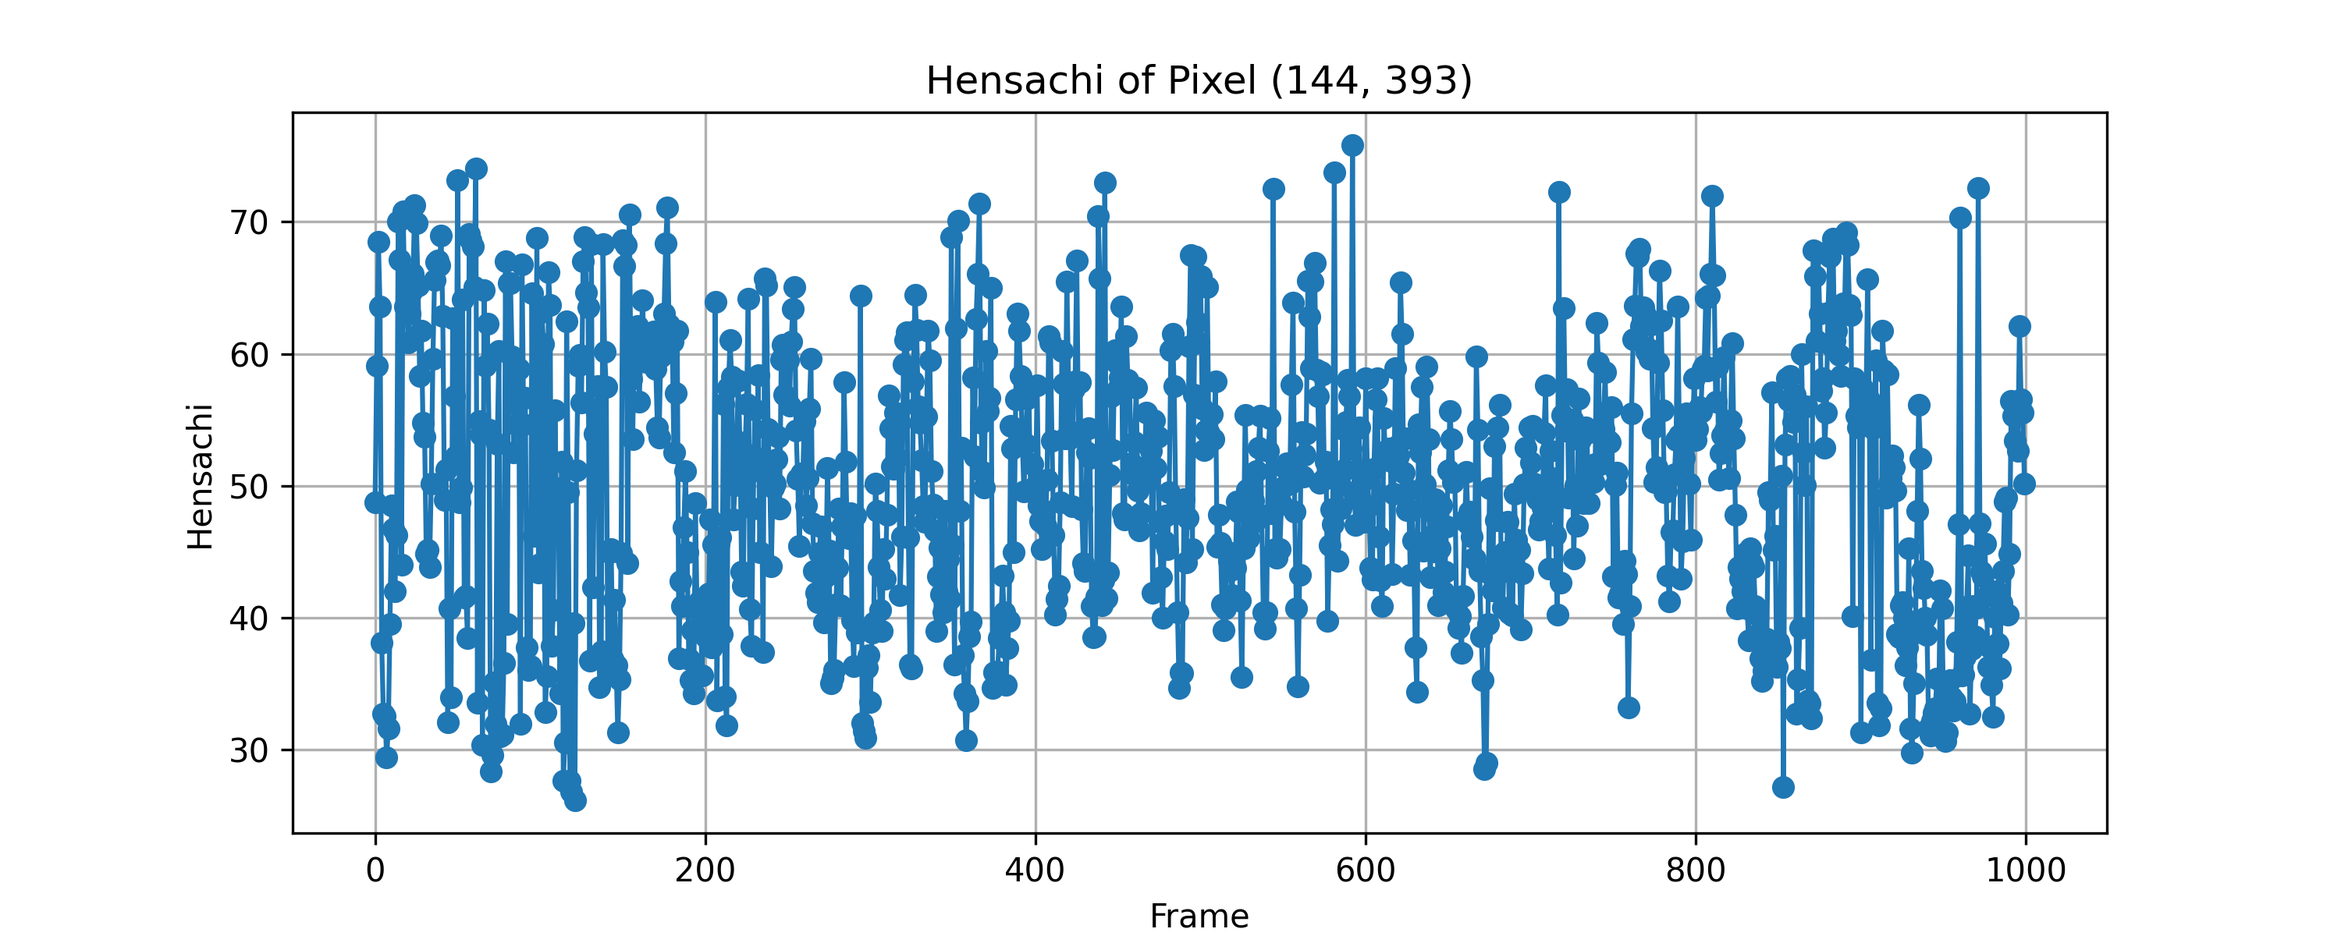
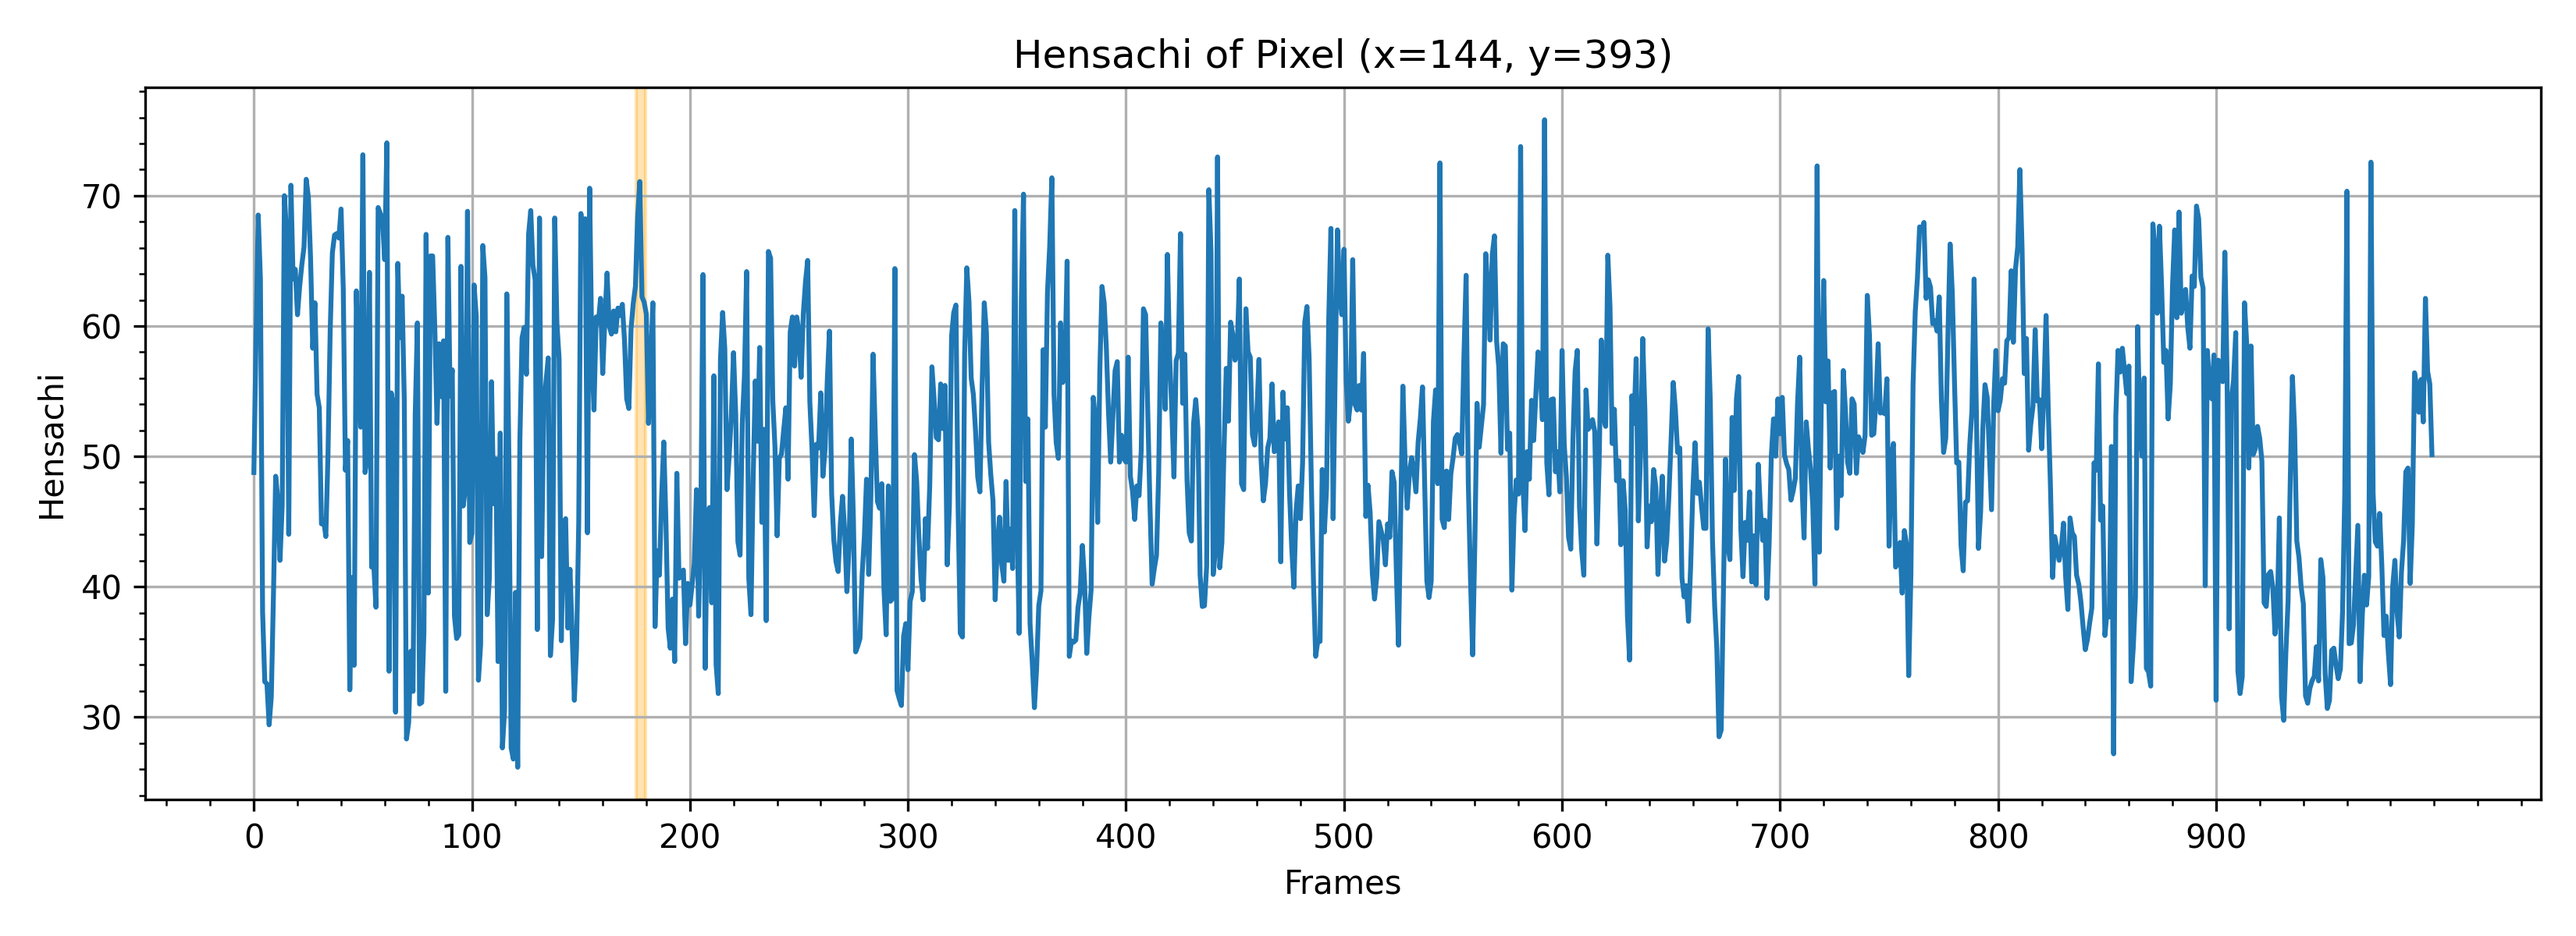
グラフ作成の改善とピクセル座標の整理、強調表示エリアを追加

diff --git a/graph.py b/graph.py
@@ -24,6 +24,12 @@ INPUT_DIR = r"J:\Observe-Data\2025-08-30\2025-08-30pic-LT\2025-08-30-0441_7-CapO
 CROP_H = 800             # 切り取る高さ（数値）
 CROP_W = 800             # 切り取る幅（数値）
 
+#強調するフレーム
+emphasis=(176,179)
+
+# 見たいピクセル座標
+y = 393
+x = 144
 # ダミーの偏差値画像（10フレーム、5×5ピクセル）
 #hensachi = np.random.normal(
 #    loc=50,      # 平均50
@@ -65,9 +71,7 @@ frames, centers = extract_sun_mini(
 
 mean, std, hensachi = calculate_hensachi(frames)
 
-# 見たいピクセル座標
-y = 393
-x = 144
+
 
 # 全フレームのそのピクセルの偏差値を取り出す
 pixel_values = hensachi[:, y, x]
@@ -76,10 +80,23 @@ pixel_values = hensachi[:, y, x]
 frames = np.arange(len(pixel_values))
 
 # グラフ作成
-plt.figure(figsize=(10, 4))
-plt.plot(frames, pixel_values, marker="o")
-plt.xlabel("Frame")
+
+plt.figure(figsize=(11, 4))
+
+plt.minorticks_on()
+plt.xticks(np.arange(0, len(frames), 100))
+plt.yticks(np.arange(0, 100, 10))
+
+plt.plot(frames, pixel_values, marker="o",markersize=0,markerfacecolor="#ec468a")
+
+plt.axvspan(emphasis[0]-0.5, emphasis[1]+0.5, color='orange', alpha=0.3, label='Highlight Area')
+
+plt.xlabel("Frames")
 plt.ylabel("Hensachi")
-plt.title(f"Hensachi of Pixel ({x}, {y})")
+plt.title(f"Hensachi of Pixel (x={x}, y={y})")
 plt.grid(True)
+
+plt.tight_layout()
 plt.savefig(f"pixel_graph_x{x}_y{y}.png", dpi=300)
+
+plt.close()
